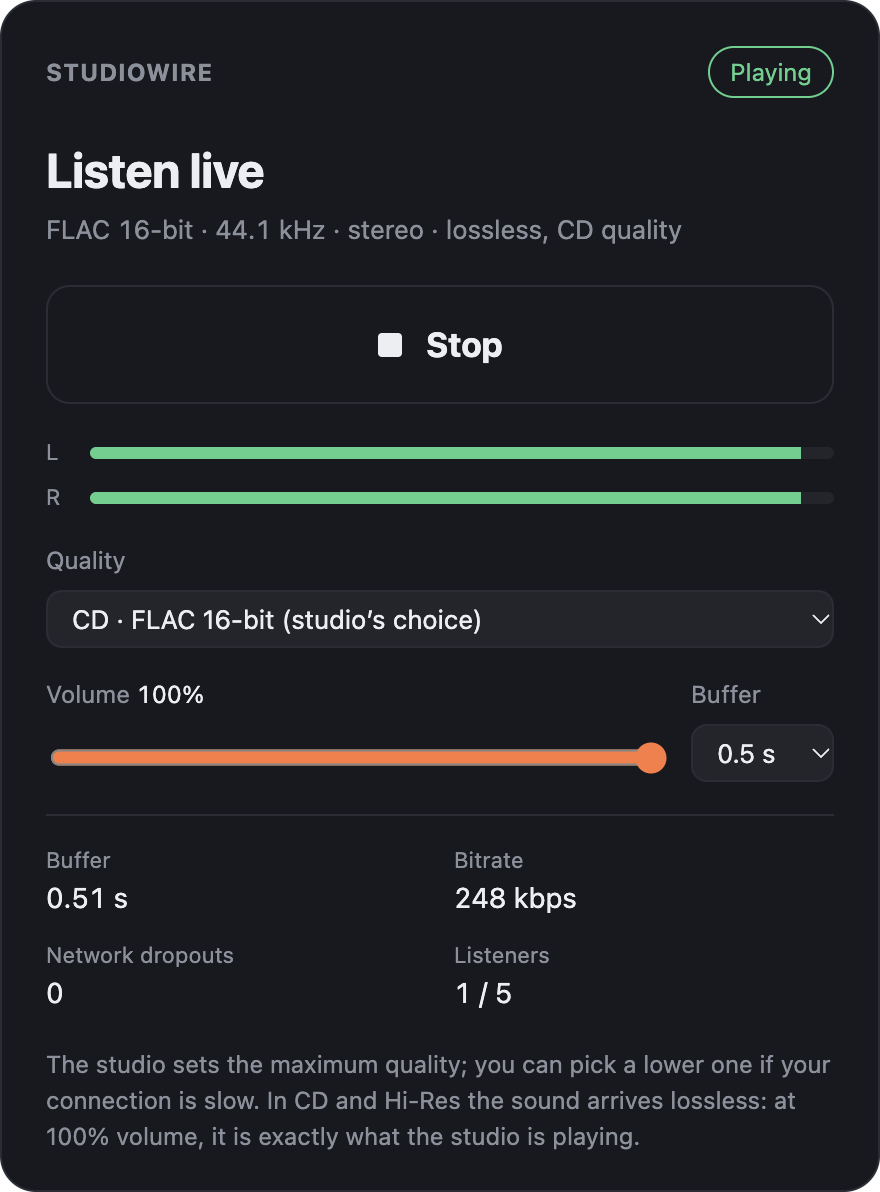
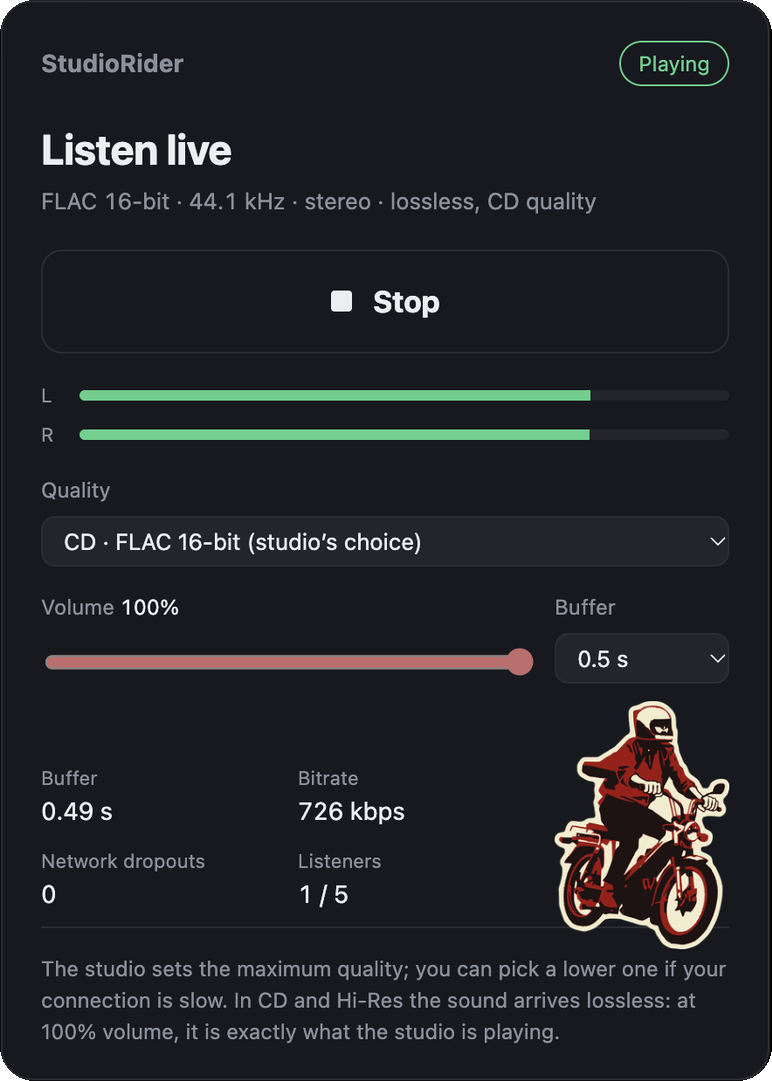
README: new screenshots (StudioRider 1.0)
Claude-Session: https://claude.ai/code/session_01WpmYHX9qNWBEqboHfsxQx3

diff --git a/README.md b/README.md
@@ -17,7 +17,7 @@ DAW (master) ─► StudioRider ─► local server 127.0.0.1 ─► cloudflared
 <p align="center">
   <img src="docs/images/plugin.png" width="57%" alt="The StudioRider plugin window: Start sharing, stream quality, link to send to the listener">
   &nbsp;
-  <img src="docs/images/listener.png" width="36%" alt="The listening page in a browser: playing in CD quality, level meters, quality and buffer settings">
+  <img src="docs/images/listener.png" width="35%" alt="The listening page in a browser: playing in CD quality, level meters, quality and buffer settings">
 </p>
 
 - macOS 13 Ventura or later, Apple Silicon and Intel. (The plugin itself could
